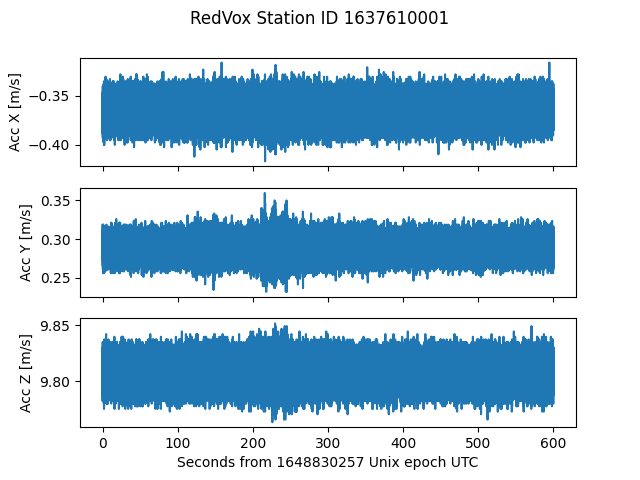
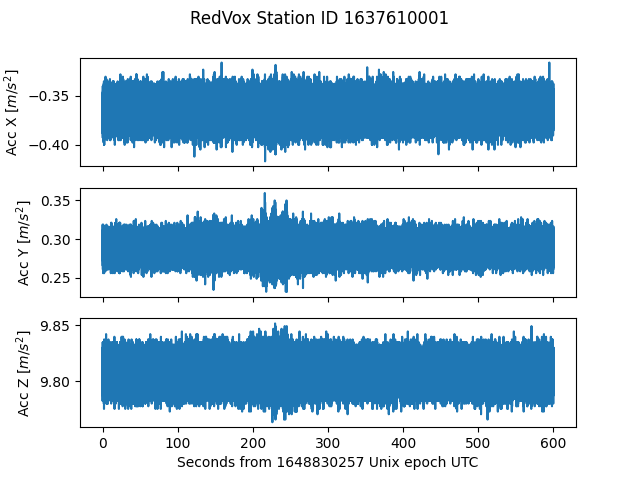
fix units typo

Changed region(s): [[0.0, 0.125, 0.0312, 0.3438], [0.0312, 0.6875, 0.0625, 0.875], [0.0312, 0.4062, 0.0625, 0.5938]]

diff --git a/examples/ex_01_report_accelerometer/load_accelerometer.py b/examples/ex_01_report_accelerometer/load_accelerometer.py
@@ -18,7 +18,7 @@ MICROS_TO_S = 1E-6
 # Change input_dir the path of your data directory
 # input_dir = "/CHANGE/ME/DATA_2022/REDVOX_EXAMPLES"
 # Example:
-input_dir = "/Users/mgarces/Documents/DATA_2022/REDVOX_EXAMPLES"
+# input_dir = "/Users/mgarces/Documents/DATA_2022/REDVOX_EXAMPLES"
 
 # Name of the RedVox datawindow file you downloaded:
 INPUT_FILE = "dw_1648830257000498_2.pkl.lz4"
@@ -58,9 +58,9 @@ def main() -> None:
         ax[2].plot(accelerometer_time_s, accelerometer_z_samples)
 
         # Set labels and subplot title
-        ax[0].set_ylabel('Acc X [m/s]')
-        ax[1].set_ylabel('Acc Y [m/s]')
-        ax[2].set_ylabel('Acc Z [m/s]')
+        ax[0].set_ylabel(r'Acc X [$m/s^2$]')
+        ax[1].set_ylabel(r'Acc Y [$m/s^2$]')
+        ax[2].set_ylabel(r'Acc Z [$m/s^2$]')
         ax[2].set_xlabel(f"Seconds from {int(dw.start_date()*MICROS_TO_S)} Unix epoch UTC")
 
         plt.suptitle(f"RedVox Station ID {station.id()}")

diff --git a/examples/ex_02_other_sensors/load_other_sensors.py b/examples/ex_02_other_sensors/load_other_sensors.py
@@ -87,9 +87,9 @@ def main() -> None:
         ax[2].plot(magnetometer_time_s, magnetometer_z_samples)
 
         # Set labels and subplot title
-        ax[0].set_ylabel('Mag X [m/s]')
-        ax[1].set_ylabel('Mag Y [m/s]')
-        ax[2].set_ylabel('Mag Z [m/s]')
+        ax[0].set_ylabel(r'Mag X [$\mu T$]')
+        ax[1].set_ylabel('Mag Y [$\mu T$]')
+        ax[2].set_ylabel('Mag Z [$\mu T$]')
         ax[2].set_xlabel(f"Seconds from {int(dw.start_date()*MICROS_TO_S)} Unix epoch UTC")
 
         plt.suptitle(f"RedVox Station ID {station.id()}")
